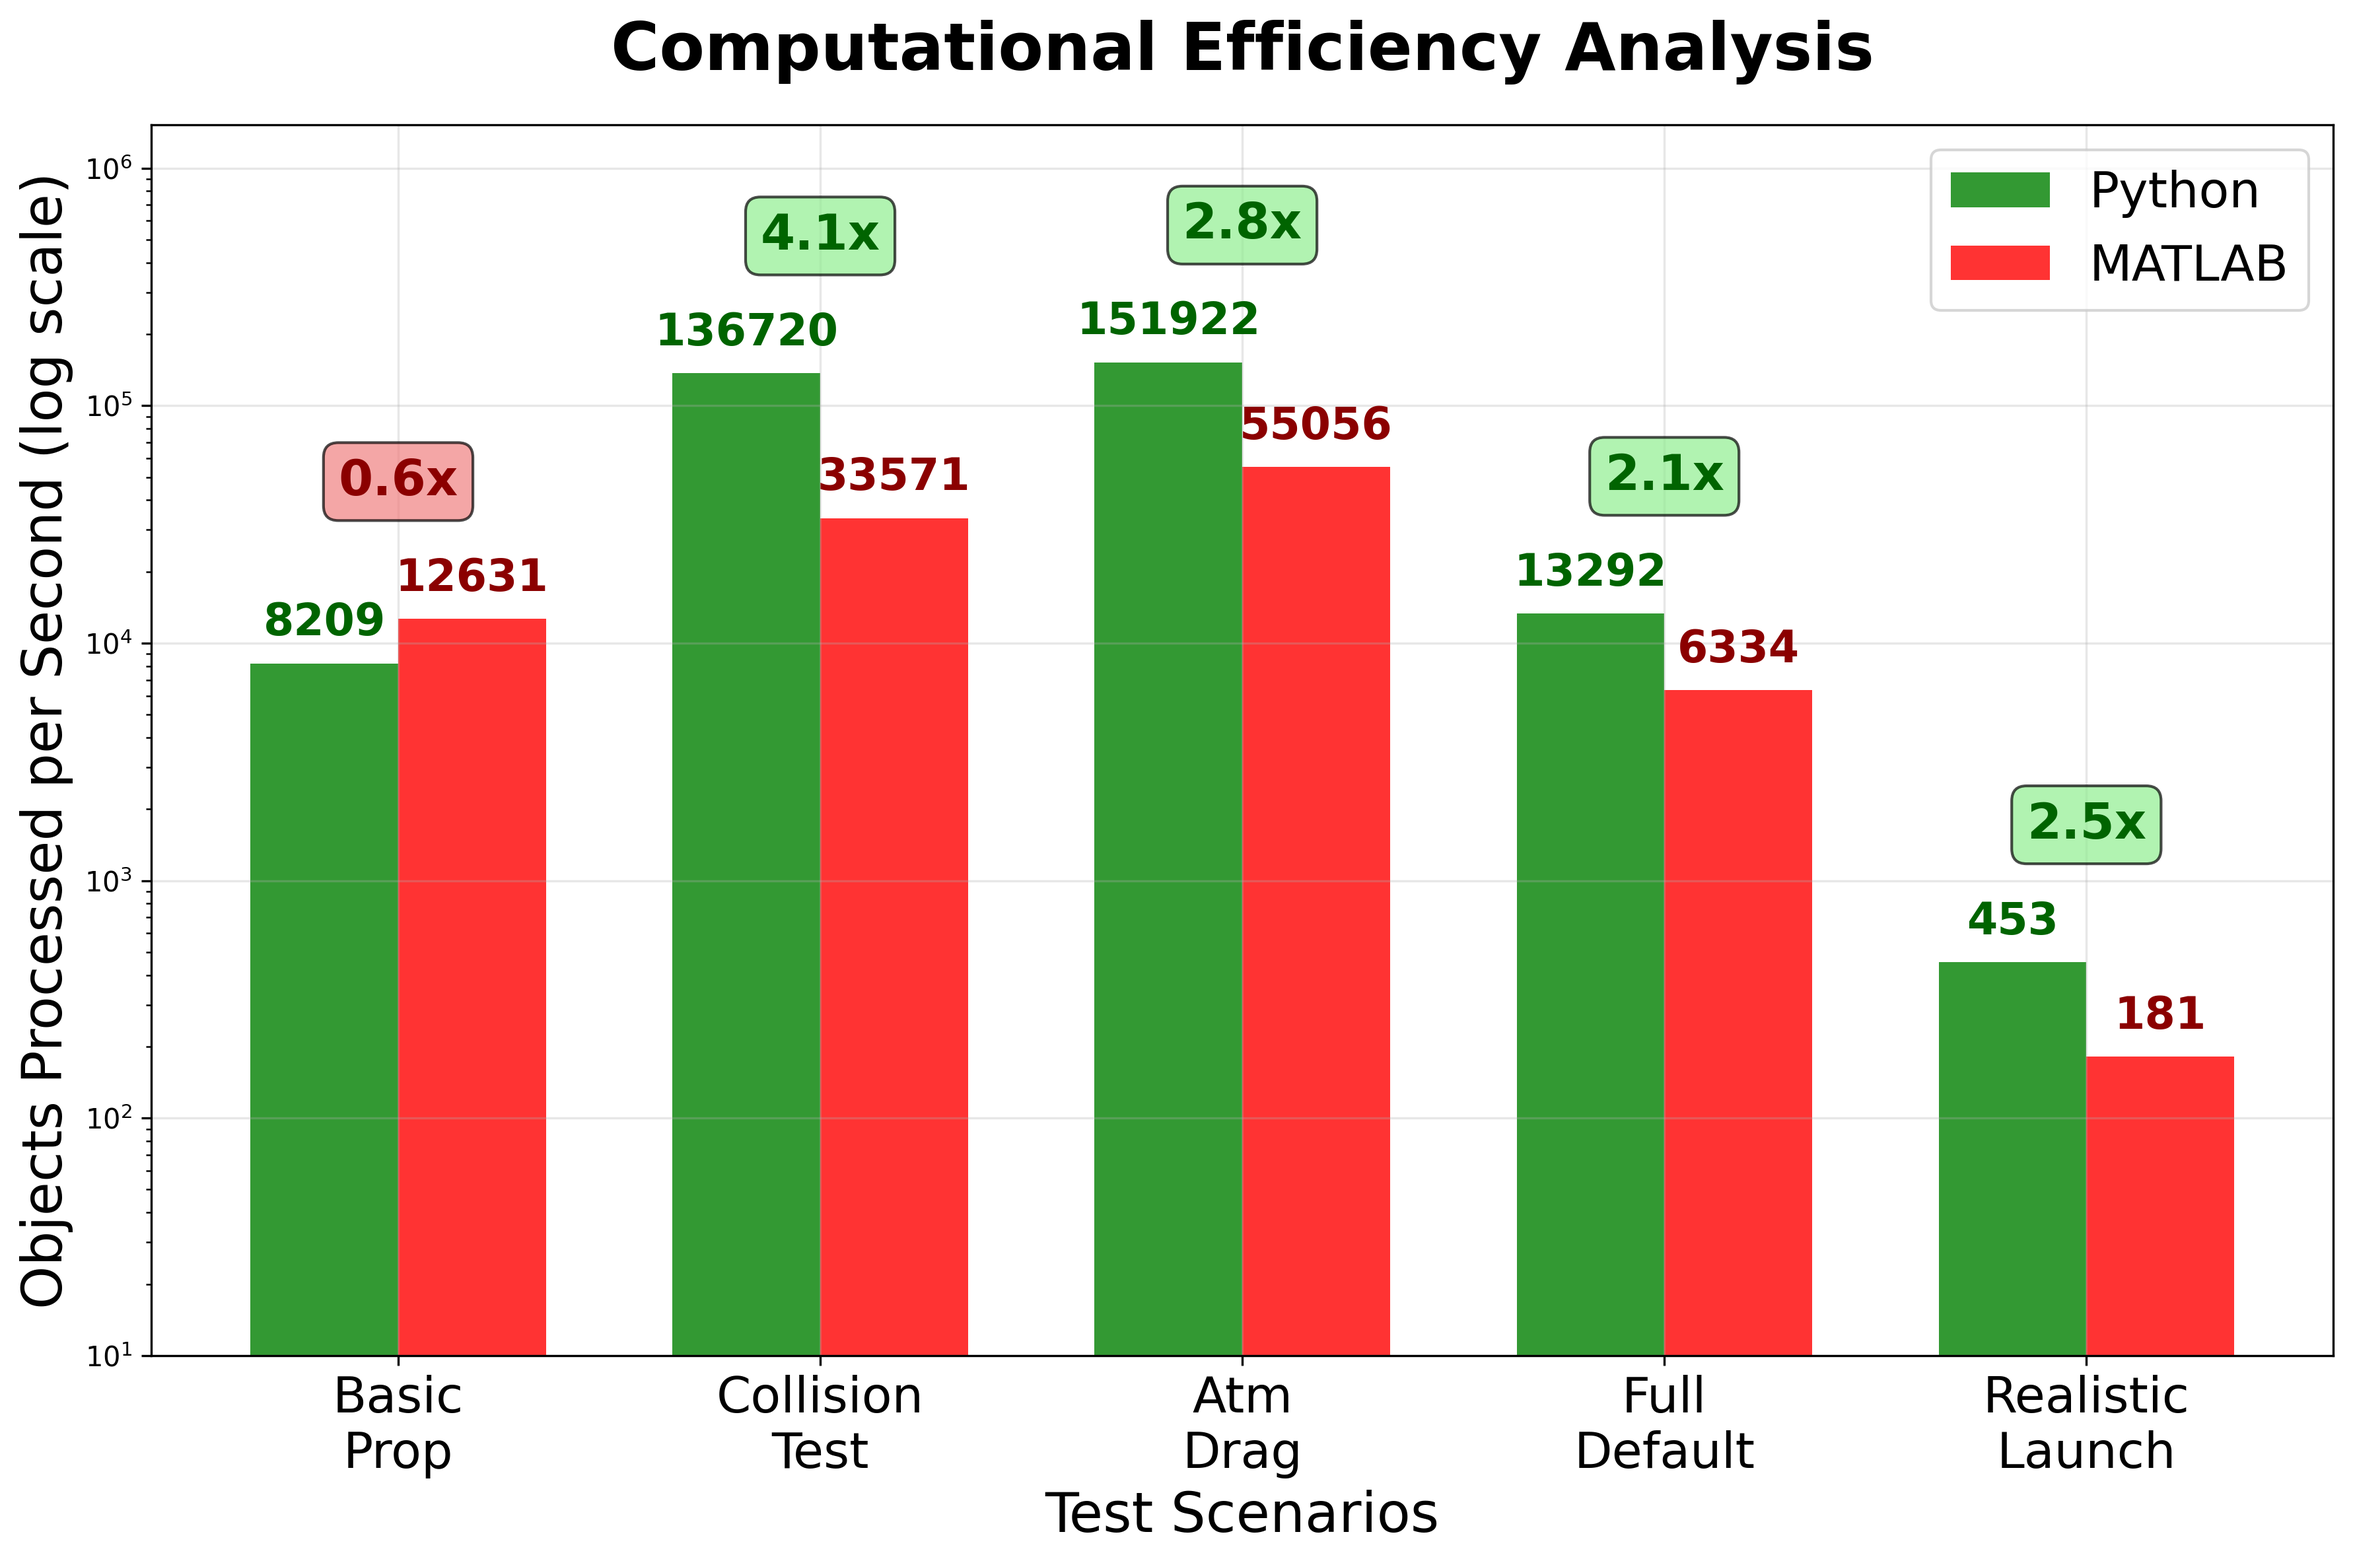
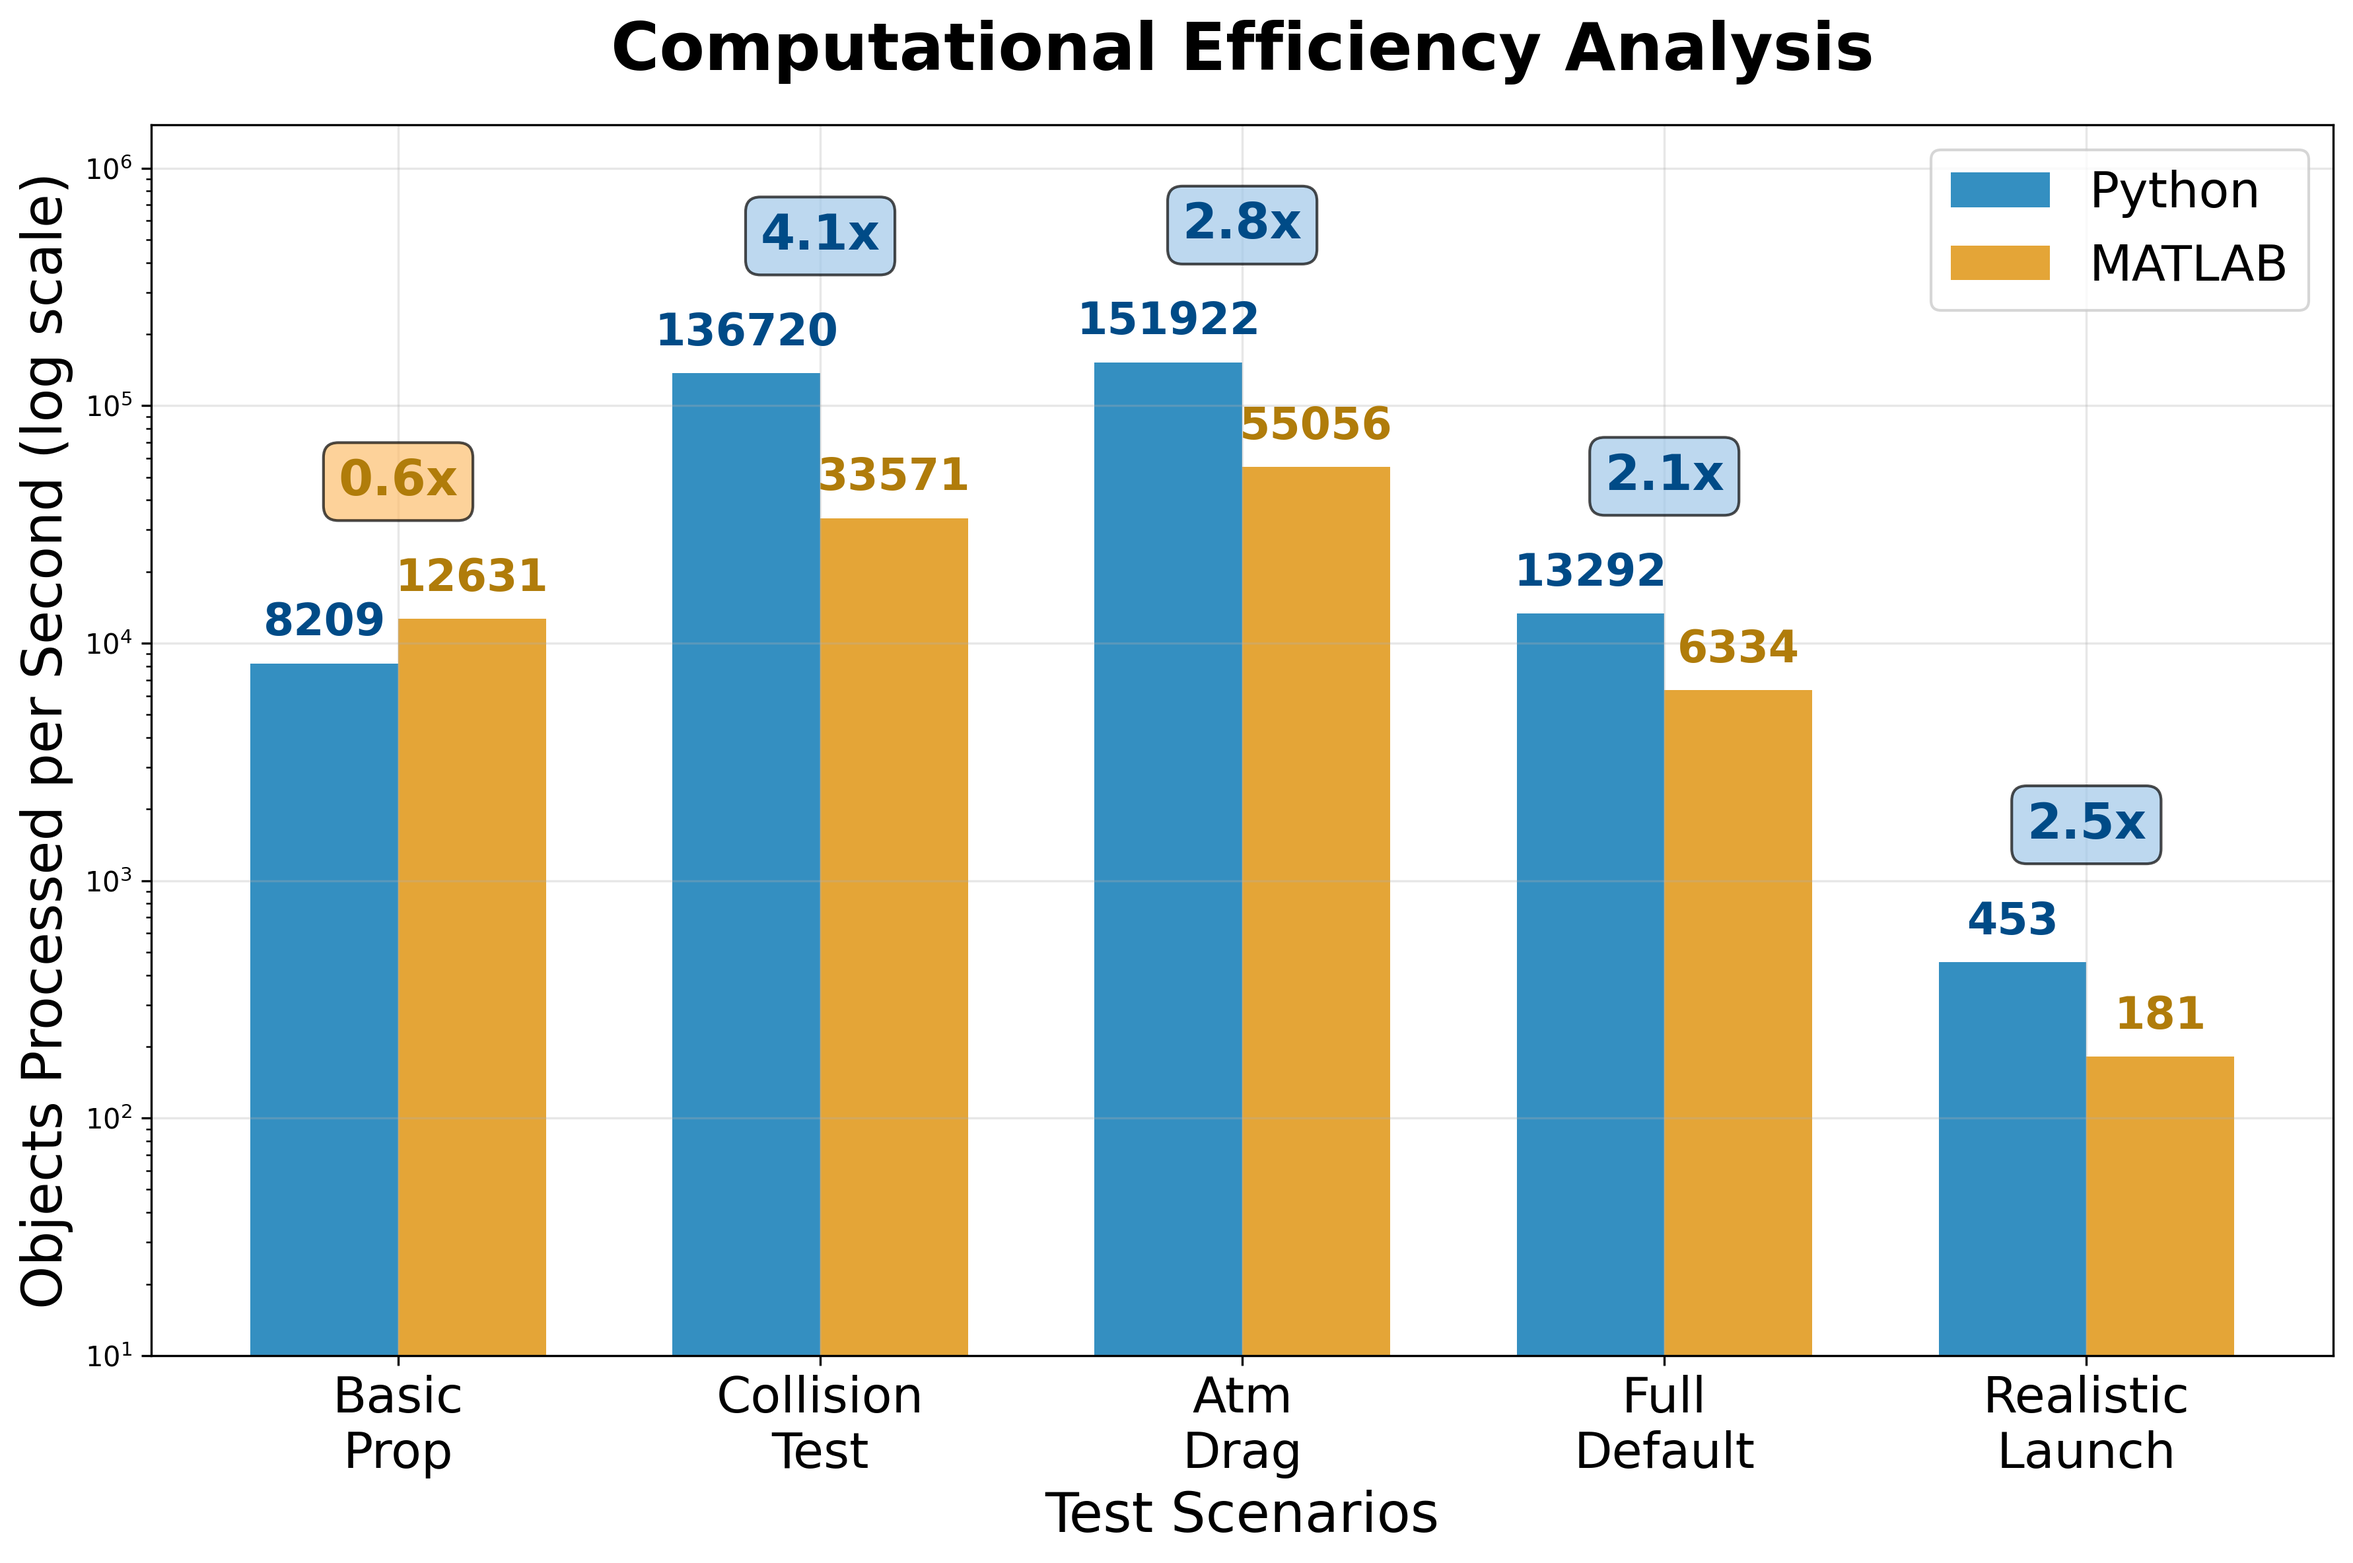
Update figures and results

diff --git a/analysis_figures/plot_computational_efficiency.py b/analysis_figures/plot_computational_efficiency.py
@@ -49,10 +49,11 @@ def plot_computational_efficiency():
     x_pos = np.arange(len(scenarios_short))
     width = 0.35
     
+    # Colorblind-friendly colors: blue and orange
     bars1 = ax.bar(x_pos - width/2, objects_per_sec_py, width, 
-                   label='Python', color='green', alpha=0.8)
+                   label='Python', color='#0173B2', alpha=0.8)
     bars2 = ax.bar(x_pos + width/2, objects_per_sec_mat, width, 
-                   label='MATLAB', color='red', alpha=0.8)
+                   label='MATLAB', color='#DE8F05', alpha=0.8)
     
     # Formatting
     ax.set_ylabel('Objects Processed per Second (log scale)', fontsize=20)
@@ -69,23 +70,23 @@ def plot_computational_efficiency():
     for i, (py_eff, mat_eff) in enumerate(zip(objects_per_sec_py, objects_per_sec_mat)):
         # Python bars
         ax.text(i - width/2, py_eff * 1.2, f'{py_eff:.0f}', ha='center', va='bottom', 
-               fontsize=16, fontweight='bold', color='darkgreen')
+               fontsize=16, fontweight='bold', color='#004B87')  # Darker blue
         # MATLAB bars  
         ax.text(i + width/2, mat_eff * 1.2, f'{mat_eff:.0f}', ha='center', va='bottom', 
-               fontsize=16, fontweight='bold', color='darkred')
+               fontsize=16, fontweight='bold', color='#B07C0A')  # Darker orange
     
     # Add performance ratio annotations
     for i, (py_eff, mat_eff) in enumerate(zip(objects_per_sec_py, objects_per_sec_mat)):
         ratio = py_eff / mat_eff
         y_pos = max(py_eff, mat_eff) * 3
         
-        # Color box red if MATLAB is faster (ratio < 1), green if Python is faster
+        # Color box orange if MATLAB is faster (ratio < 1), blue if Python is faster
         if ratio < 1:
-            color = 'darkred'
-            facecolor = 'lightcoral'
+            color = '#B07C0A'  # Darker orange
+            facecolor = '#FDBF6F'  # Light orange
         else:
-            color = 'darkgreen'  
-            facecolor = 'lightgreen'
+            color = '#004B87'  # Darker blue
+            facecolor = '#A1C8E9'  # Light blue
             
         ax.annotate(f'{ratio:.1f}x', 
                    xy=(i, y_pos), ha='center', va='bottom',

diff --git a/analysis_figures/plot_execution_time.py b/analysis_figures/plot_execution_time.py
@@ -21,8 +21,9 @@ def plot_execution_time():
     x = np.arange(len(scenarios))
     width = 0.35
     
-    bars1 = ax.bar(x - width/2, python_times, width, label='Python', color='green', alpha=0.8)
-    bars2 = ax.bar(x + width/2, matlab_times, width, label='MATLAB', color='red', alpha=0.8)
+    # Colorblind-friendly colors: blue and orange
+    bars1 = ax.bar(x - width/2, python_times, width, label='Python', color='#0173B2', alpha=0.8)
+    bars2 = ax.bar(x + width/2, matlab_times, width, label='MATLAB', color='#DE8F05', alpha=0.8)
     
     # Formatting
     ax.set_title('Execution Time Comparison', fontsize=24, fontweight='bold', pad=20)
@@ -41,23 +42,23 @@ def plot_execution_time():
     for i, (py, mat) in enumerate(zip(python_times, matlab_times)):
         # Python bars
         ax.text(i - width/2, py * 1.1, f'{py:.2f}s', ha='center', va='bottom',
-                fontsize=16, color='darkgreen')
+                fontsize=16, color='#004B87')  # Darker blue
         # MATLAB bars
         ax.text(i + width/2, mat * 1.1, f'{mat:.1f}s', ha='center', va='bottom',
-                fontsize=16, color='darkred')
+                fontsize=16, color='#B07C0A')  # Darker orange
     
     # Add speedup factors
     for i, (py, mat) in enumerate(zip(python_times, matlab_times)):
         speedup = mat / py
         y_pos = max(py, mat) * 2
         
-        # Color box red if MATLAB is faster (speedup < 1), green if Python is faster
+        # Color box orange if MATLAB is faster (speedup < 1), blue if Python is faster
         if speedup < 1:
-            color = 'darkred'
-            facecolor = 'lightcoral'
+            color = '#B07C0A'  # Darker orange
+            facecolor = '#FDBF6F'  # Light orange
         else:
-            color = 'green'
-            facecolor = 'lightgreen'
+            color = '#004B87'  # Darker blue
+            facecolor = '#A1C8E9'  # Light blue
             
         ax.annotate(f'{speedup:.1f}x', xy=(i, y_pos), ha='center', va='bottom',
                    color=color, fontweight='bold', fontsize=18,

diff --git a/analysis_figures/plot_error_analysis.py b/analysis_figures/plot_error_analysis.py
@@ -31,8 +31,8 @@ def create_error_box_plots():
     rel_labels = ['Satellites', 'Derelicts', 'Debris', 'Rocket\nBodies']
     
     bp = ax.boxplot(rel_data, tick_labels=rel_labels, patch_artist=True,
-                    boxprops=dict(facecolor='green', alpha=0.7),
-                    medianprops=dict(color='red', linewidth=2))
+                    boxprops=dict(facecolor='#0173B2', alpha=0.7),  # Colorblind-friendly blue
+                    medianprops=dict(color='#DE8F05', linewidth=2))  # Colorblind-friendly orange
     
     ax.set_title('Relative Error Distribution', fontsize=24, fontweight='bold')
     ax.set_ylabel('Relative Error (%)', fontsize=20)

diff --git a/analysis_figures/plot_total_object_counts.py b/analysis_figures/plot_total_object_counts.py
@@ -21,8 +21,9 @@ def plot_total_object_counts():
     x = np.arange(len(scenarios))
     width = 0.35
     
-    bars1 = ax.bar(x - width/2, python_totals, width, label='Python', color='green', alpha=0.8)
-    bars2 = ax.bar(x + width/2, matlab_totals, width, label='MATLAB', color='red', alpha=0.8)
+    # Colorblind-friendly colors: blue and orange
+    bars1 = ax.bar(x - width/2, python_totals, width, label='Python', color='#0173B2', alpha=0.8)
+    bars2 = ax.bar(x + width/2, matlab_totals, width, label='MATLAB', color='#DE8F05', alpha=0.8)
     
     # Formatting
     ax.set_title('Total Object Counts Comparison', fontsize=24, fontweight='bold', pad=20)

diff --git a/paper/paper.md b/paper/paper.md
@@ -69,14 +69,14 @@ Across all tested scenarios, PyMOCAT-MC reproduces the results of the MATLAB imp
 
 In addition to matching the accuracy of MATLAB, the Python version delivers substantial performance gains. The most computationally demanding scenario, which includes realistic launch patterns for megaconstellations, runs in less than 29.95 seconds with PyMOCAT-MC compared to 75.02 seconds in MATLAB, representing a speed-up larger than a factor of two. 
 
-![Runtime comparison between MATLAB and Python implementations for multiple scenarios, showing up to a 4× improvement in computational speed for PyMOCAT-MC.](figures/execution_time_comparison.png)
+![Runtime comparison between MATLAB and Python implementations for multiple scenarios, showing up to a 4× improvement in computational speed for PyMOCAT-MC.](figures/execution_time_comparison.png){width=80%}
 
-Error analysis confirms that the differences between MATLAB and Python remain minimal across simulation years and object types. The heatmap and box plots highlights that relative errors are uniformly low; the mean relative error is 0.96%, and the maximum error across object types and time horizons is 2.38%. Specifically among satellites and debris, the error is consistently lower than 0.4%.
+Error analysis confirms that the differences between MATLAB and Python remain minimal across simulation years and object types. The heatmap and box plots highlights that relative errors are uniformly low; the mean relative error is 0.96%, and the maximum error across object types and time horizons is 2.38%. Specifically among satellites and debris, the error is consistently lower than 0.61%.
 
-![Heatmap of relative error (%) across simulation years and object types, illustrating consistent accuracy of the Python implementation compared to MATLAB.](figures/object_type_percentage_heatmap.png)
+![Heatmap of relative error (%) across simulation years and object types, illustrating consistent accuracy of the Python implementation compared to MATLAB.](figures/object_type_percentage_heatmap.png){width=80%}
 
-![Relative error distribution box plots across object classes, showing PyMOCAT-MC achieves near-zero error for satellites and consistently low error across all categories.](figures/error_box_plots.png)
+![Relative error distribution box plots across object classes, showing PyMOCAT-MC achieves near-zero error for satellites and consistently low error across all categories.](figures/error_box_plots.png){width=80%}
 
-These improvements reduce the time required for large simulation batches, making it feasible to explore a wider range of parameters and run more detailed sensitivity analyses.
+These improvements reduce the time required for large simulation batches, enabling exploration of a wider range of parameters and more detailed sensitivity analyses. PyMOCAT-MC can be applied to test how different launch strategies influence orbital sustainability, evaluate debris mitigation policies, and generate scenario libraries that inform both engineering design and regulatory decision-making.
 
 # References
